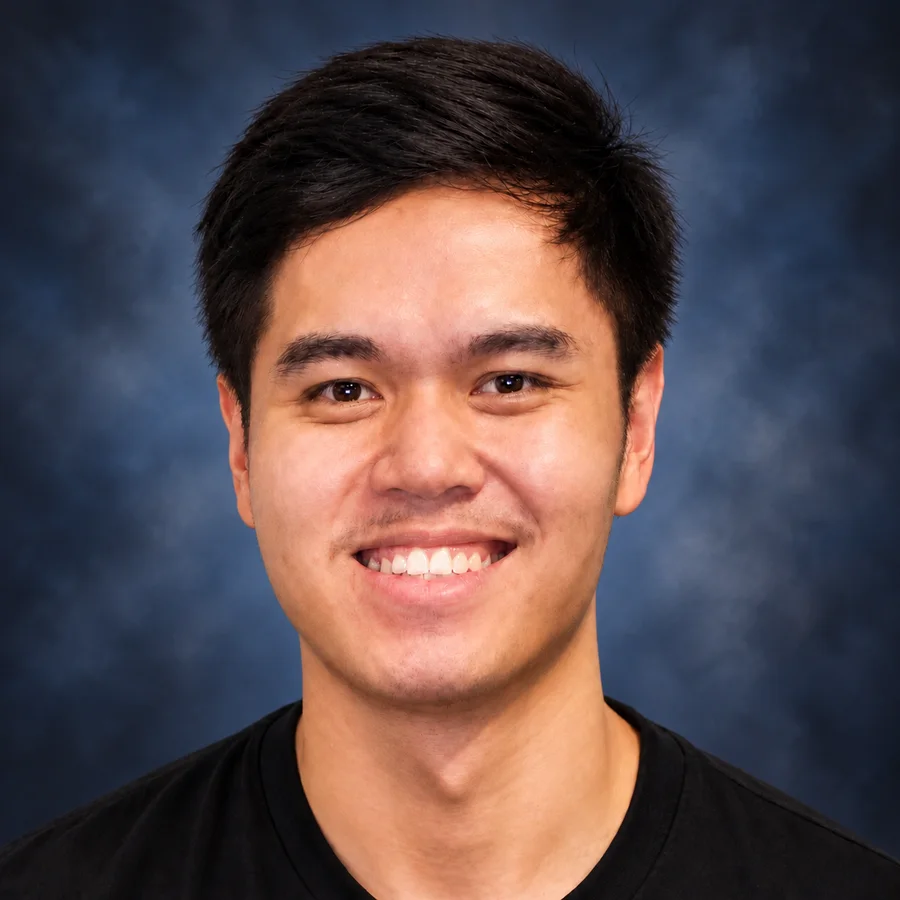
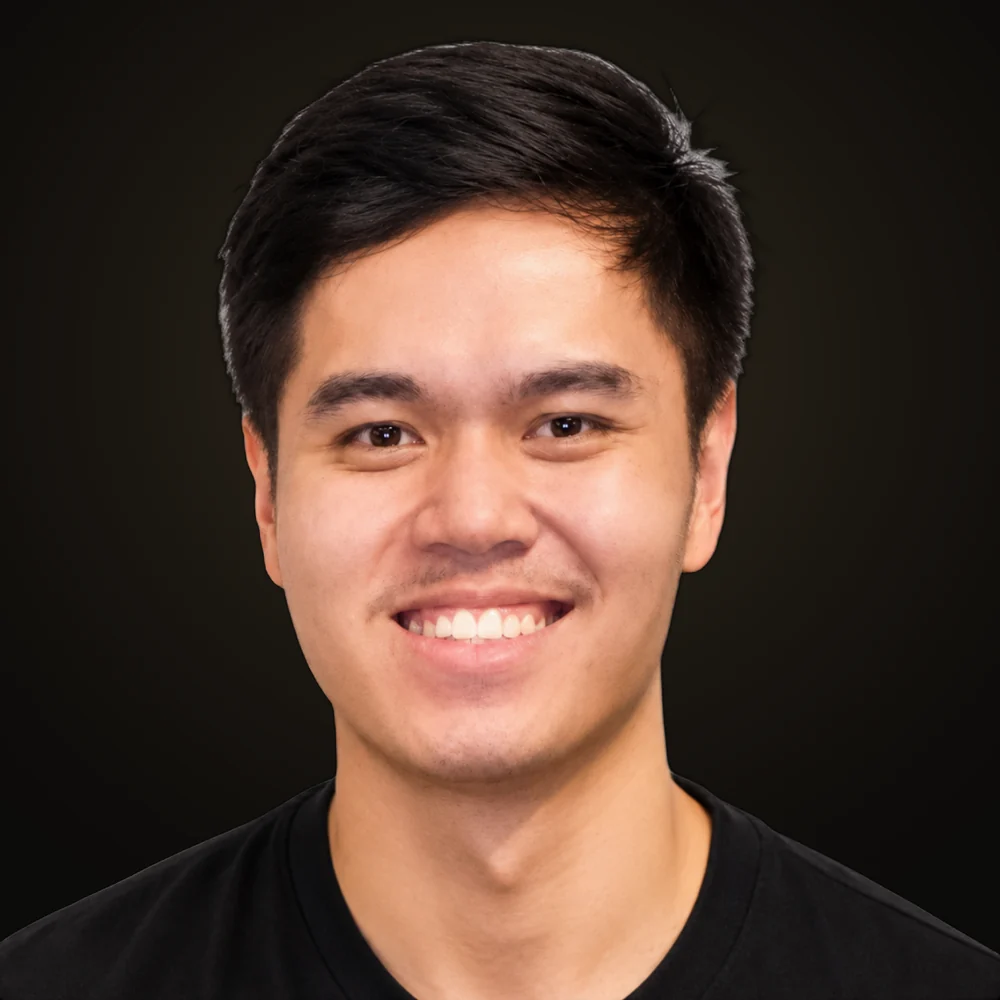
Update profile photo
New portrait cut out from its white studio background and placed on a
dark warm backdrop that matches the hero; 1000×1000 WebP (~41 KB),
cache-busted so browsers fetch the new image.

Claude-Session: https://claude.ai/code/session_01RewTJKkNnc7xoXuCMNFZae

diff --git a/index.html b/index.html
@@ -102,7 +102,7 @@
         <figure class="hero-portrait">
           <svg class="ring" viewBox="0 0 200 200" aria-hidden="true"><circle class="r1" cx="100" cy="100" r="96"/><circle class="r2" cx="100" cy="100" r="88"/></svg>
           <div class="ph" data-r="plate" data-from="up" style="--d:.45s">
-            <div class="ph-in"><img class="ph-img duo" src="images/profile/lance-dimandal.webp" width="900" height="900" alt="Lance Dimandal" fetchpriority="high" decoding="async"></div>
+            <div class="ph-in"><img class="ph-img duo" src="images/profile/lance-dimandal.webp?v=2026-11-16" width="1000" height="1000" alt="Lance Dimandal" fetchpriority="high" decoding="async"></div>
           </div>
           <figcaption data-r="rise" style="--d:1s">
             <span><b>Lance Dimandal</b>WordPress / Shopify / Front-end</span>
